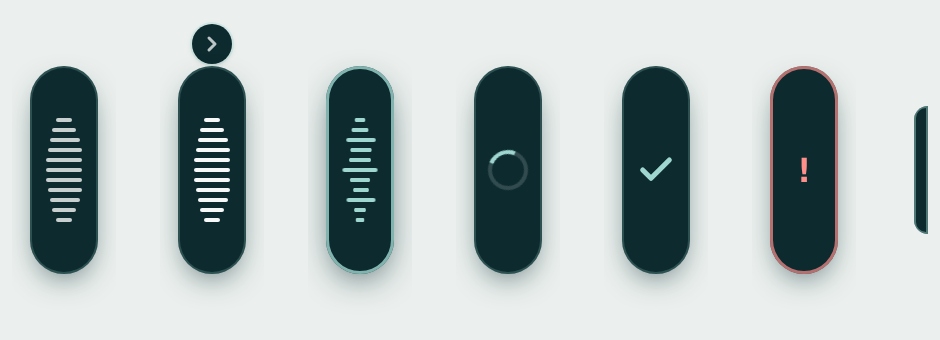
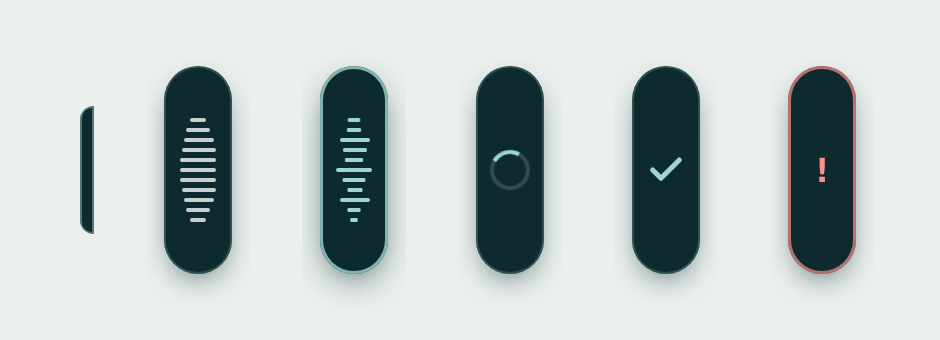
Rest as an edge tab; open the pill only on click
The dictation control now sits at the screen edge as a slim tab. Clicking
the tab opens the pill; once it is idle and the pointer has left, it
tucks back into the tab by itself (sooner after a dictation). The app
always starts with the tab, and the separate tuck button is gone.

Claude-Session: https://claude.ai/code/session_017gMERCnDJWbvzrgGxzteAN

diff --git a/src/bubble/Bubble.tsx b/src/bubble/Bubble.tsx
@@ -1,6 +1,6 @@
 import { useEffect, useRef, useState } from "react";
 import type { PointerEvent } from "react";
-import { Check, ChevronLeft, ChevronRight } from "lucide-react";
+import { Check } from "lucide-react";
 import { cx } from "../components/ui";
 import { bridge } from "../lib/bridge";
 import type { BubbleLayout, DictationState } from "../lib/bridge";
@@ -8,10 +8,15 @@ import type { BubbleLayout, DictationState } from "../lib/bridge";
 // Line widths (px) that stack into the oval voice mark.
 const LINES = [8, 12, 15, 17, 18, 18, 18, 17, 15, 12, 8];
 
+// How long the open pill waits, untouched, before tucking back into the edge.
+const TUCK_AFTER_MS = 4000;
+const TUCK_AFTER_DONE_MS = 1200;
+
 /**
- * Always-on-top pill at the screen edge. Click to start or stop dictation, drag
- * to move it (it snaps to the nearest side). Its close button never removes it:
- * the pill tucks into the edge as a slim tab, and clicking the tab brings it back.
+ * Always-on-top dictation control at the screen edge. It rests as a slim tab;
+ * clicking the tab opens the pill. Click the pill to start or stop dictation,
+ * drag it to move it (it snaps to the nearest side). Once it is idle and the
+ * pointer has left, it tucks back into the tab by itself.
  */
 export default function Bubble() {
   const params = new URLSearchParams(location.search);
@@ -58,6 +63,22 @@ export default function Bubble() {
     if (!window.saytype && !moved) bridge.toggleDictation(); // browser preview
   };
 
+  // Tuck back into the edge when nothing is happening.
+  const used = useRef(false); // a dictation ran while the pill was open
+  useEffect(() => {
+    if (demo || layout.collapsed) {
+      used.current = false;
+      return;
+    }
+    if (state.status !== "idle") {
+      used.current = true;
+      return;
+    }
+    if (hover || dragging) return;
+    const t = setTimeout(() => bridge.setBubbleCollapsed(true), used.current ? TUCK_AFTER_DONE_MS : TUCK_AFTER_MS);
+    return () => clearTimeout(t);
+  }, [demo, layout.collapsed, state.status, hover, dragging]);
+
   const s = state.status;
   const recording = s === "recording";
   const processing = s === "processing";
@@ -66,8 +87,8 @@ export default function Bubble() {
   if (layout.collapsed) {
     return (
       <button
-        aria-label="Show the SayType pill"
-        title="Show the SayType pill"
+        aria-label="Open the SayType pill"
+        title="Open the SayType pill"
         onClick={() => bridge.setBubbleCollapsed(false)}
         className={cx("group flex h-screen w-screen items-center", right ? "justify-end" : "justify-start")}
       >
@@ -83,27 +104,12 @@ export default function Bubble() {
     );
   }
 
-  const Tuck = right ? ChevronRight : ChevronLeft;
   return (
     <div
       className="relative flex h-screen w-screen flex-col items-center justify-center"
       onMouseEnter={() => setHover(true)}
       onMouseLeave={() => setHover(false)}
     >
-      {/* Tuck the pill into the edge. Revealed on hover while idle. */}
-      <button
-        aria-label="Tuck into the screen edge"
-        title="Tuck into the edge (click the tab to bring it back)"
-        onClick={() => bridge.setBubbleCollapsed(true)}
-        tabIndex={hover ? 0 : -1}
-        className={cx(
-          "absolute top-0.5 flex size-5 items-center justify-center rounded-full bg-[#0d2b2f] text-[#f7f9f8]/75 shadow ring-1 ring-[#9fd6cf]/30 transition-opacity hover:text-white",
-          hover && s === "idle" && !dragging ? "opacity-100" : "pointer-events-none opacity-0"
-        )}
-      >
-        <Tuck className="size-3" strokeWidth={3} />
-      </button>
-
       <button
         aria-label={recording ? "Stop dictation" : "Start dictation"}
         onPointerDown={onPointerDown}

diff --git a/src/pages/Settings.tsx b/src/pages/Settings.tsx
@@ -109,18 +109,11 @@ function General({ settings, update }: Props) {
             <Switch checked={settings.restoreClipboard} onChange={(v) => update({ restoreClipboard: v })} label="Restore clipboard" />
           </Row>
           <Row
-            title="Floating pill"
-            description="A slim pill at the edge of your screen. Click to dictate, drag to move. Its arrow tucks it into the edge; click the tab that's left to bring it back."
+            title="Edge tab"
+            description="A slim tab at the edge of your screen. Click it to open the dictation pill; click the pill to dictate, drag it to move. The pill tucks back into the tab when you're done."
           >
-            <Switch checked={settings.showBubble} onChange={(v) => update({ showBubble: v })} label="Floating pill" />
+            <Switch checked={settings.showBubble} onChange={(v) => update({ showBubble: v })} label="Edge tab" />
           </Row>
-          {settings.showBubble && settings.bubbleCollapsed && (
-            <Row title="The pill is tucked into the screen edge" description="Look for the slim tab on the side of your screen, or bring the pill back from here.">
-              <Button size="sm" onClick={() => bridge.setBubbleCollapsed(false)}>
-                Bring it back
-              </Button>
-            </Row>
-          )}
           <Row title="Sound effects" description="Soft chimes when recording starts and stops.">
             <Switch checked={settings.soundEffects} onChange={(v) => update({ soundEffects: v })} label="Sound effects" />
           </Row>

diff --git a/src/lib/bridge.ts b/src/lib/bridge.ts
@@ -222,7 +222,7 @@ function createMock(): BridgeApi {
     historyRetention: "30d",
     checkUpdates: true,
     showBubble: true,
-    bubbleCollapsed: false,
+    bubbleCollapsed: true,
     hasKey: { openai: true },
   };
   let state: DictationState = { status: "idle", message: "" };
@@ -332,7 +332,7 @@ function createMock(): BridgeApi {
       return { moved: false };
     },
     setBubbleCollapsed: async (collapsed) => emit("bubbleLayout", { side: "right", collapsed }),
-    getBubbleLayout: async () => ({ side: "right", collapsed: false }),
+    getBubbleLayout: async () => ({ side: "right", collapsed: true }),
     onBubbleLayout: on("bubbleLayout"),
     copy: async (t) => {
       try {

diff --git a/src/pages/Home.tsx b/src/pages/Home.tsx
@@ -131,7 +131,7 @@ function Hero({ state, hotkey }: { state: DictationState; hotkey: string }) {
           </h2>
           <div className="mt-6 flex items-center gap-3 text-[13px] text-white/60">
             <Hotkey accel={hotkey} tone="inverse" />
-            <span>or the pill at the screen edge · <span className="text-white/80">Esc</span> to cancel</span>
+            <span>or the tab at the screen edge · <span className="text-white/80">Esc</span> to cancel</span>
           </div>
         </div>
 

diff --git a/README.md b/README.md
@@ -14,7 +14,7 @@
 - **Built for developers** – in VS Code, Cursor, Windsurf, JetBrains IDEs and terminals it writes camelCase and snake_case, turns “utils dot ts” into `utils.ts`, tags files as `@utils.ts` in Cursor and Windsurf, and spells tools like Supabase, Vercel and PostgreSQL correctly.
 - **Role and names** – tell it your role (developer, student, writer, business, support, healthcare) and a line about you, and add uncommon names and terms to the dictionary: Adithya, git diff, Andreessen Horowitz, Guillain–Barré syndrome.
 - **Instant formatting, no key needed** – “new line”, “new paragraph” and “bullet point”, filler removal, file names and developer terms work offline. Add an AI key (or Ollama) for lists, emails, prompts and self-corrections (“4, actually 5” → “5”). Styles: Natural, Professional, Casual or Verbatim.
-- **Edge pill** – a slim always-on-top pill at the edge of your screen. Click it to start or stop listening, drag it anywhere (it snaps to the nearest side). Its arrow tucks it into the edge as a small tab; click the tab to bring it back, so it can't get lost.
+- **Edge tab and pill** – a slim always-on-top tab rests at the edge of your screen. Click it to open the dictation pill; click the pill to start or stop listening, drag it anywhere (it snaps to the nearest side). When you're done it tucks back into the tab by itself, so it stays out of the way and can't get lost.
 - **Recording bar** – a live waveform, timer, and cancel/finish buttons that never steal focus from the app you're typing in.
 - **Free, private, offline transcription** – choose **On this PC** and SayType runs Whisper (whisper.cpp) on your own computer. No API key, no Docker, no cost. Base (142 MB) is fine for English; use Large v3 Turbo (574 MB) or Large v3 (1.08 GB) for Indian languages. The engine only runs while you dictate and shuts itself down after 10 idle minutes.
 - **Or bring your own provider** – OpenAI or Groq (Whisper Large v3, the fastest accurate option for Telugu, Tamil and Kannada) for speech-to-text, and OpenAI, Anthropic Claude, or Groq for polish. Any **OpenAI-compatible self-hosted server** (Speaches, faster-whisper-server, Ollama, LM Studio) works too.
@@ -28,7 +28,7 @@
 | <img src="docs/history.png" alt="History" /> | <img src="docs/home-dark.png" alt="Dark mode" /> |
 
 <p align="center"><img src="docs/overlay-recording.png" width="420" alt="Recording pill" /></p>
-<p align="center"><img src="docs/bubble-states.png" width="470" alt="Edge pill: idle, hover, recording, processing, done, error, and tucked into the edge" /></p>
+<p align="center"><img src="docs/bubble-states.png" width="470" alt="Edge tab, and the pill it opens: idle, recording, processing, done, error" /></p>
 
 ## Getting started
 
